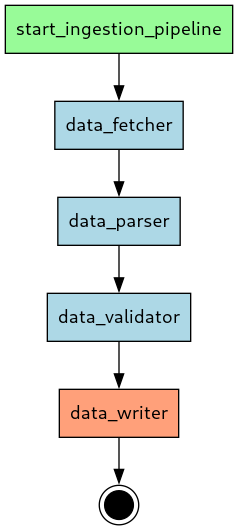
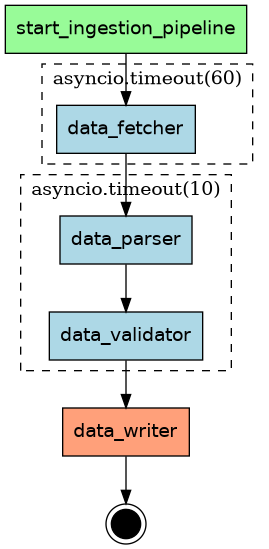
feat(compiler): render context manager scopes as dashed subgraphs in flow diagrams
- Parser now populates groups from context manager extracted_configs,
  so scope actors appear as dashed subgraphs in DOT/Mermaid and in
  groups[] in graph.json
- Fix _sanitize_id to handle parentheses and commas in group labels
  (e.g. asyncio.timeout(30))
- Update flow-dsl.md: replace outdated retryRules/retry rules
  terminology with correct resiliency policies and rules; fix old
  spec.resiliency.retry.maxAttempts path to
  spec.resiliency.policies.default.maxAttempts
- Recompile with_asyncio_timeout and with_nested_timeout_scopes examples

diff --git a/src/asya-lab/asya_lab/flow/graphgen.py b/src/asya-lab/asya_lab/flow/graphgen.py
@@ -235,7 +235,9 @@ def to_json_string(data: GraphData, flow_name: str) -> str:
 
 def _sanitize_id(name: str) -> str:
     """Make a name safe for DOT/Mermaid node IDs."""
-    return name.replace(".", "_").replace("-", "_").replace(" ", "_")
+    return (
+        name.replace(".", "_").replace("-", "_").replace(" ", "_").replace("(", "_").replace(")", "_").replace(",", "_")
+    )
 
 
 def _display_name(name: str) -> str:

diff --git a/src/asya-lab/asya_lab/flow/parser.py b/src/asya-lab/asya_lab/flow/parser.py
@@ -851,6 +851,9 @@ class FlowParser:
                         "scope_actors": list(scope_actors),
                     }
                 )
+            if scope_actors:
+                group_label = ast.unparse(stmt.items[0].context_expr)
+                self._groups.append({"id": group_label, "nodes": list(scope_actors)})
             return body_ops
 
         elif treat_as == "inline":

diff --git a/docs/reference/specs/flow-dsl.md b/docs/reference/specs/flow-dsl.md
@@ -68,7 +68,7 @@ the actors do the actual work.
 | While loops | `while p["n"] < 3: ...` | Loop-back router with self-reference |
 | Break / continue | `break`, `continue` | Exit / restart loop via route overwrite |
 | Early return | `return p` | Clear `route.next` → x-sink |
-| Try/except/finally | `try: ... except E: ...` | Except router + resiliency rules in manifests |
+| Try/except/finally | `try: ... except E: ...` | Except router + resiliency policies and rules in manifests |
 | Raise (in except) | `raise` | Terminate flow (route to x-sink) |
 | Fan-out | `p["r"] = [a(x) for x in items]` | Fan-out router + fan-in aggregator |
 | Flow composition | `@flow` sub-functions | Inlined at compile time |
@@ -222,9 +222,9 @@ finally:
 ```
 
 The compiler generates one **except_router** per `except` clause and
-injects **resiliency rules** into the manifests of every actor inside
-the `try` body. When an actor fails, the sidecar matches the error type
-against the rules and routes to the correct except_router. The
+injects **resiliency policies and rules** into the manifests of every
+actor inside the `try` body. When an actor fails, the sidecar matches
+the error type against the rules and routes to the correct except_router. The
 except_router overwrites `route.next` with the handler's continuation
 path (including `finally` actors).
 
@@ -270,7 +270,7 @@ Flow source (.py)
   Parser ──→ validates syntax, extracts operations
     │
     ▼
-  CodeGen ──→ generates router Python code + retry rules
+  CodeGen ──→ generates router Python code + resiliency policies and rules
     │
     ▼
   Analyzer ──→ extracts graph topology from generated code
@@ -557,7 +557,7 @@ so exact matches (tier 0) override wildcards:
     - param: stop
       where:
         - param: {arg: 0, kwarg: "max_attempt_number"}
-          assign-to: spec.resiliency.retry.maxAttempts
+          assign-to: spec.resiliency.policies.default.maxAttempts
 ```
 
 ### Inline comment override
@@ -688,12 +688,12 @@ For `try/except` blocks, the code generator:
 
 1. Creates one **except_router** per `except` clause — each overwrites
    `route.next` with the handler's continuation path (using SET, not prepend)
-2. Records **ActorRetryRule** for every actor in the try body — these are
-   later injected into actor manifests by the templater
+2. Records resiliency **policies** and **rules** for every actor in the
+   try body — these are later injected into actor manifests by the templater
 3. Includes `finally` actors in both the success path and every error path
 
-The retry rules link actors to their except_routers via the sidecar's
-`retryRules` first-match dispatch — no Python-level type matching needed.
+The rules link actors to their except_routers via the sidecar's
+`resiliency.rules` first-match dispatch — no Python-level type matching needed.
 
 ### Handler resolution
 
